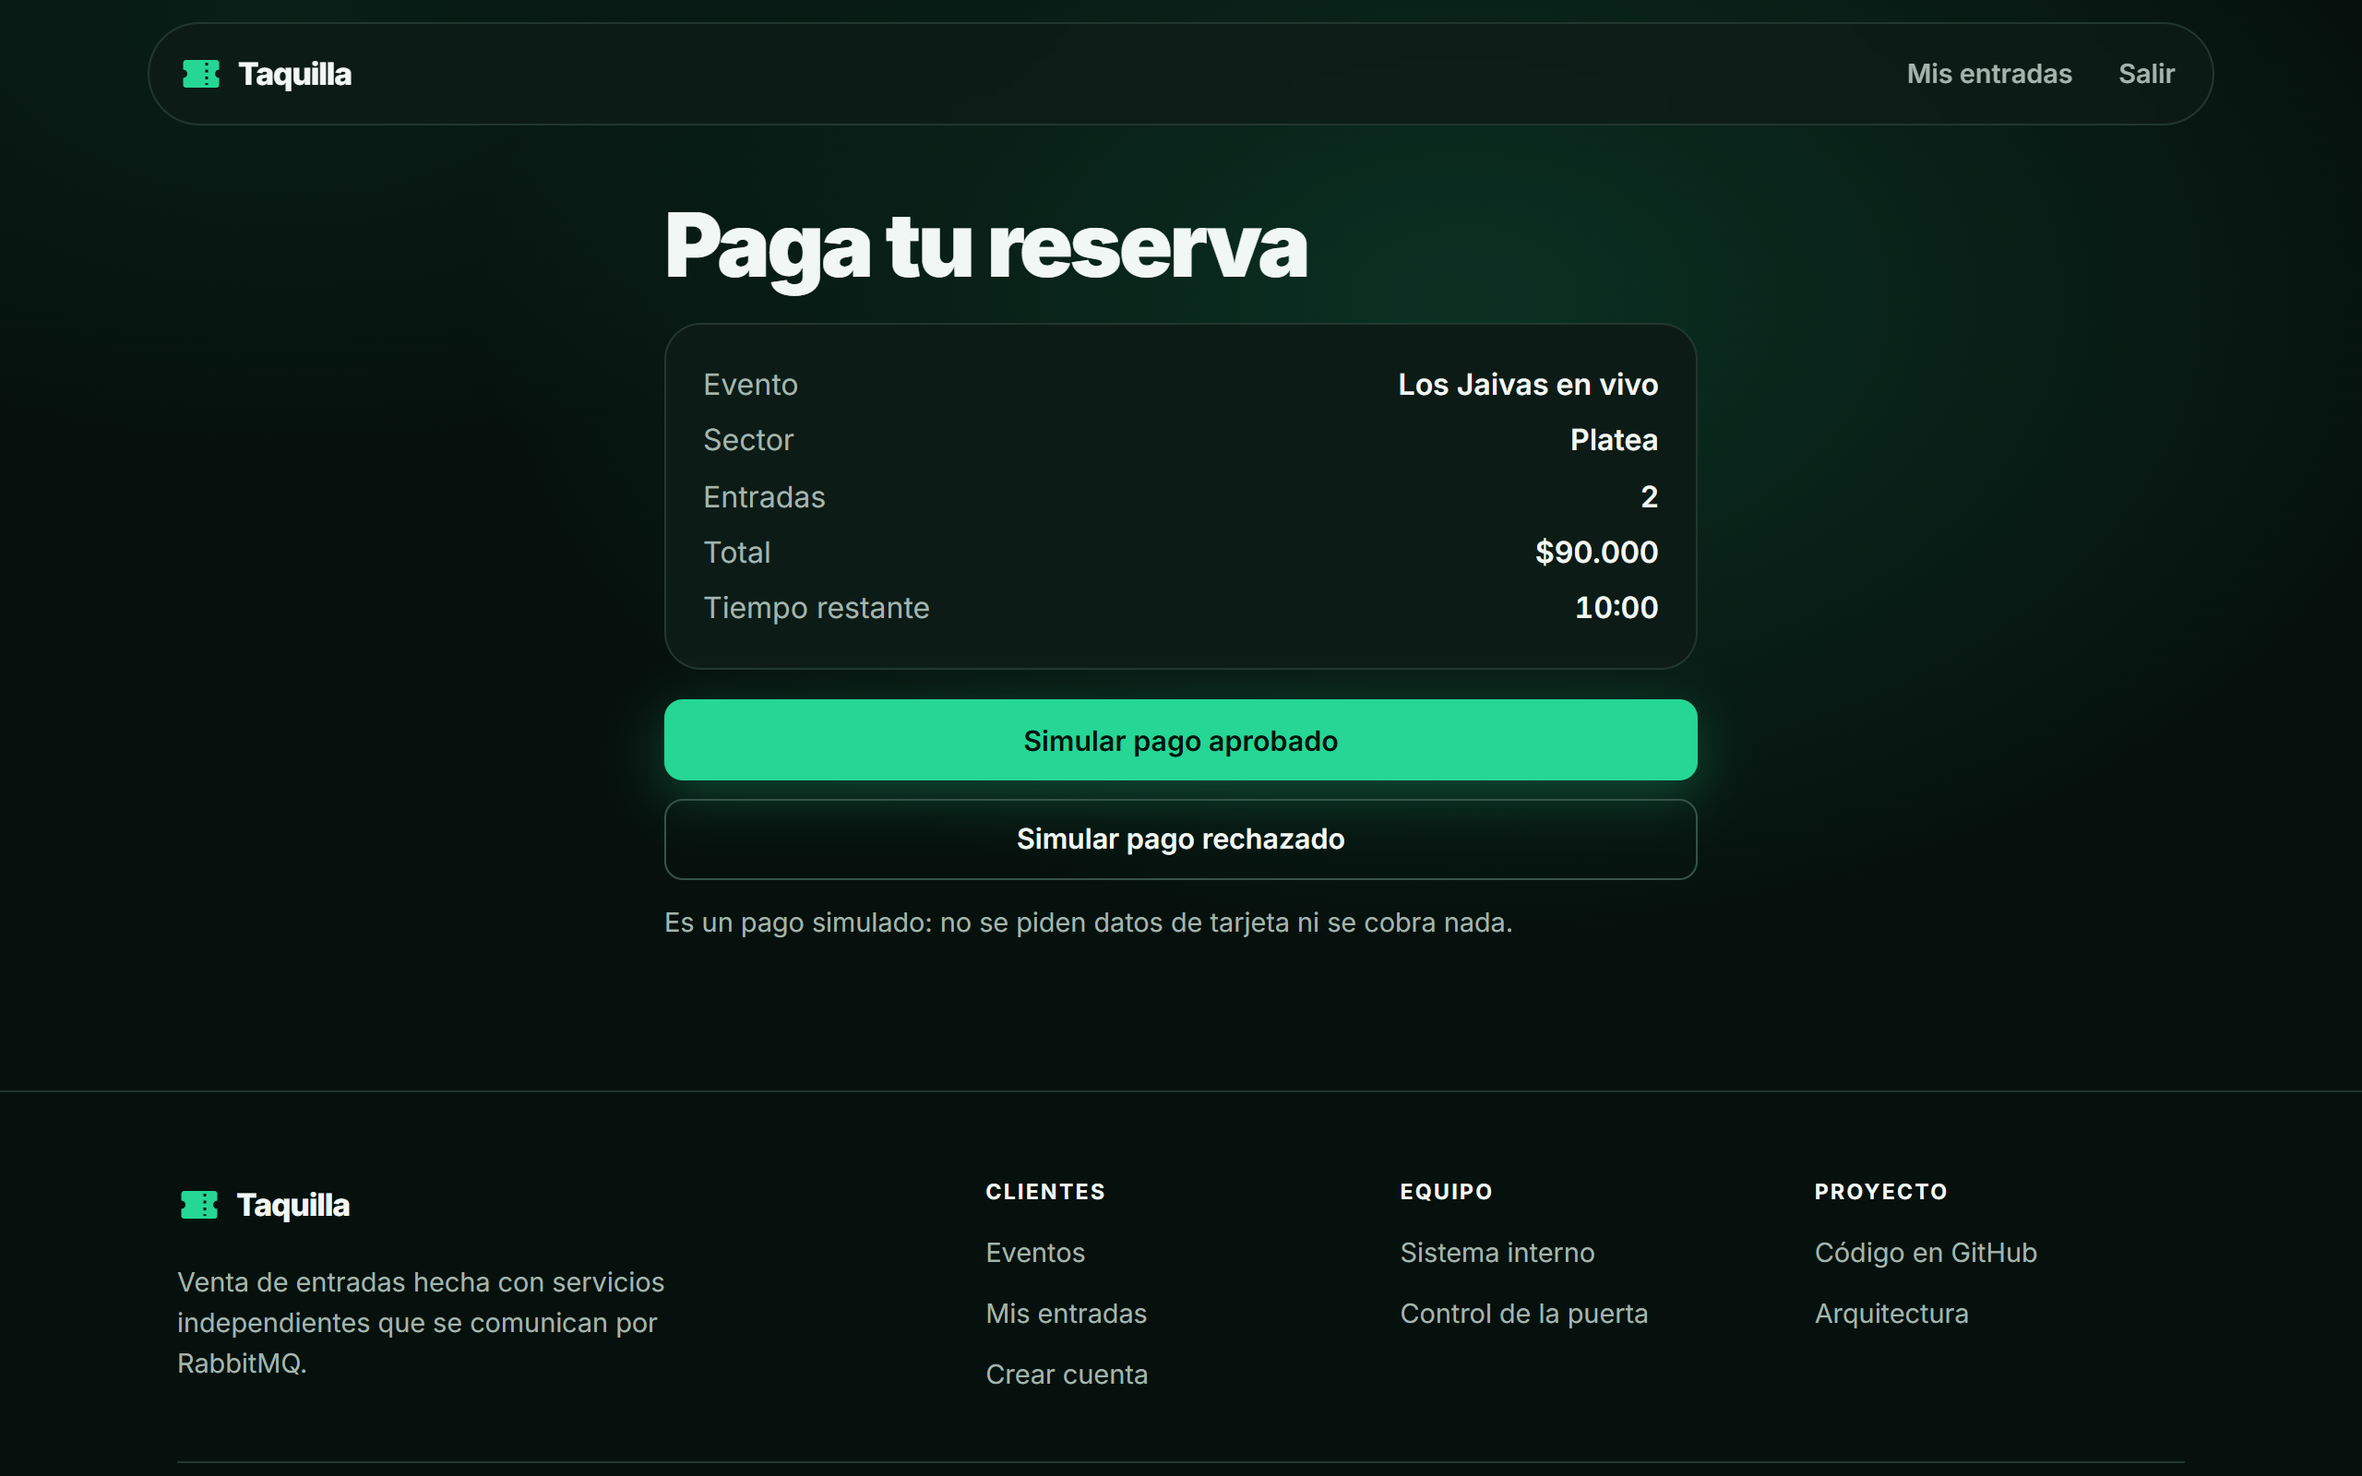
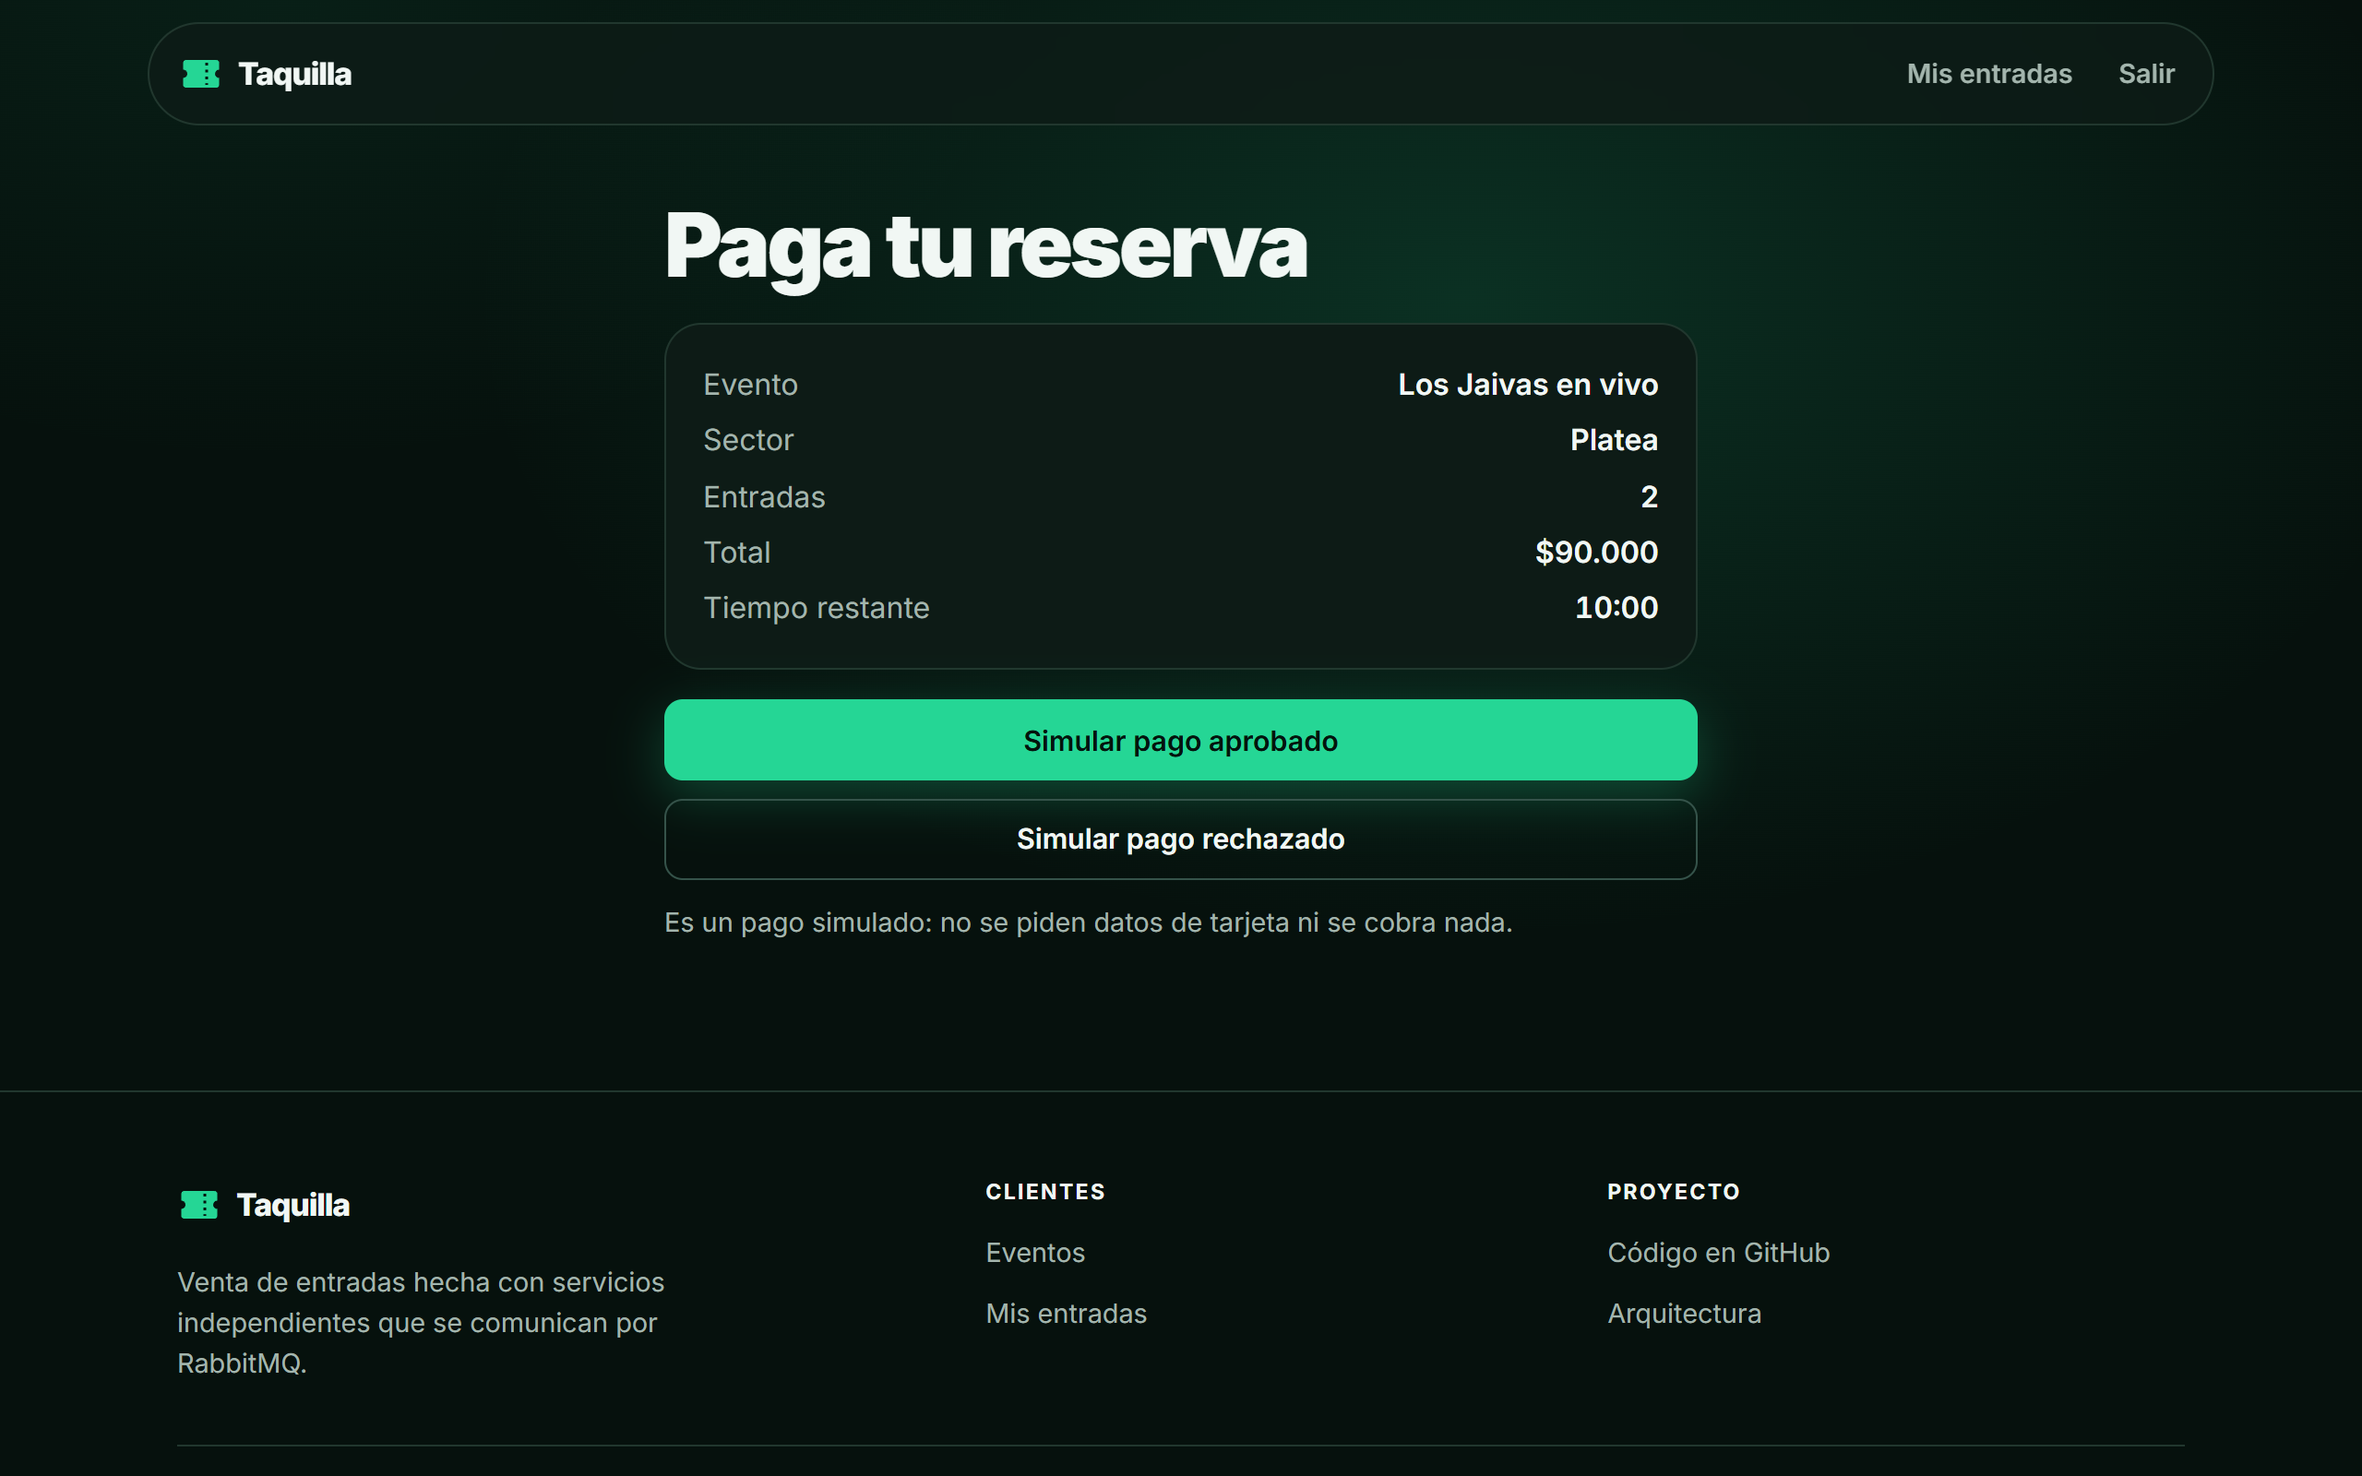
fix: corrige hallazgos de la auditoría del tema oscuro
El pie muestra enlaces según el rol y el aviso de acceso tiene salida, la navegación
sube al inicio de la página y la cabecera ya no se desborda a 320 px. La portada deja de
prometer cuatro pasos cuando son tres, y el README agrega la captura de las tarjetas.

diff --git a/frontend/src/clientes/LayoutClientes.tsx b/frontend/src/clientes/LayoutClientes.tsx
@@ -1,64 +1,8 @@
 import { Link, Outlet, useNavigate } from "react-router-dom";
 import { useSesion } from "../lib/sesion";
 import "./clientes.css";
+import { PieDePagina } from "./PieDePagina";
 import "./portada.css";
-
-const REPOSITORIO = "https://github.com/DHat3r/entradas-soa";
-
-function PieDePagina() {
-  return (
-    <footer className="cl-pie">
-      <div className="cl-pie-interior">
-        <div className="cl-pie-marca">
-          <Link to="/" className="cl-marca">
-            <img src="/icono.svg" alt="" />
-            <span>Taquilla</span>
-          </Link>
-          <p>Venta de entradas hecha con servicios independientes que se comunican por RabbitMQ.</p>
-        </div>
-        <div className="cl-pie-columnas">
-          <nav aria-label="Clientes">
-            <h3>Clientes</h3>
-            <ul>
-              <li>
-                <Link to="/">Eventos</Link>
-              </li>
-              <li>
-                <Link to="/mis-entradas">Mis entradas</Link>
-              </li>
-              <li>
-                <Link to="/registro">Crear cuenta</Link>
-              </li>
-            </ul>
-          </nav>
-          <nav aria-label="Equipo">
-            <h3>Equipo</h3>
-            <ul>
-              <li>
-                <Link to="/interno">Sistema interno</Link>
-              </li>
-              <li>
-                <Link to="/interno/puerta">Control de la puerta</Link>
-              </li>
-            </ul>
-          </nav>
-          <nav aria-label="Proyecto">
-            <h3>Proyecto</h3>
-            <ul>
-              <li>
-                <a href={REPOSITORIO}>Código en GitHub</a>
-              </li>
-              <li>
-                <a href={`${REPOSITORIO}/blob/main/docs/arquitectura.md`}>Arquitectura</a>
-              </li>
-            </ul>
-          </nav>
-        </div>
-        <p className="cl-pie-legal">Proyecto de portafolio. Los pagos son simulados.</p>
-      </div>
-    </footer>
-  );
-}
 
 export function LayoutClientes() {
   const { usuario, salir } = useSesion();
@@ -72,7 +16,13 @@ export function LayoutClientes() {
   return (
     <div className="cl-pagina">
       <header className="cl-cabecera">
-        <Link to="/" className="cl-marca">
+        {/* Ya estando en la portada, la ruta no cambia: por eso el logo sube por su cuenta. */}
+        <Link
+          to="/"
+          className="cl-marca"
+          aria-label="Taquilla, ir al inicio"
+          onClick={() => window.scrollTo({ top: 0 })}
+        >
           <img src="/icono.svg" alt="" />
           <span>Taquilla</span>
         </Link>

diff --git a/frontend/src/clientes/PieDePagina.tsx b/frontend/src/clientes/PieDePagina.tsx
@@ -1,0 +1,75 @@
+import { Link } from "react-router-dom";
+import { useSesion } from "../lib/sesion";
+
+const REPOSITORIO = "https://github.com/DHat3r/entradas-soa";
+
+/** Los enlaces dependen de la sesión, igual que la cabecera: nadie llega a una pantalla sin acceso. */
+export function PieDePagina() {
+  const { usuario } = useSesion();
+  const esCliente = usuario?.rol === "cliente";
+  const esInterno = usuario !== null && !esCliente;
+
+  return (
+    <footer className="cl-pie">
+      <div className="cl-pie-interior">
+        <div className="cl-pie-marca">
+          <Link to="/" className="cl-marca" aria-label="Taquilla">
+            <img src="/icono.svg" alt="" />
+            <span>Taquilla</span>
+          </Link>
+          <p>Venta de entradas hecha con servicios independientes que se comunican por RabbitMQ.</p>
+        </div>
+        <div className="cl-pie-columnas">
+          <nav aria-label="Clientes">
+            <h2>Clientes</h2>
+            <ul>
+              <li>
+                <Link to="/" onClick={() => window.scrollTo({ top: 0 })}>
+                  Eventos
+                </Link>
+              </li>
+              {!esInterno && (
+                <li>
+                  <Link to="/mis-entradas">Mis entradas</Link>
+                </li>
+              )}
+              {!usuario && (
+                <li>
+                  <Link to="/registro">Crear cuenta</Link>
+                </li>
+              )}
+            </ul>
+          </nav>
+          {!esCliente && (
+            <nav aria-label="Equipo">
+              <h2>Equipo</h2>
+              <ul>
+                <li>
+                  <Link to="/interno">Sistema interno</Link>
+                </li>
+                <li>
+                  <Link to="/interno/puerta">Control de la puerta</Link>
+                </li>
+              </ul>
+            </nav>
+          )}
+          <nav aria-label="Proyecto">
+            <h2>Proyecto</h2>
+            <ul>
+              <li>
+                <a href={REPOSITORIO}>Código en GitHub</a>
+              </li>
+              <li>
+                <a href={`${REPOSITORIO}/blob/main/docs/arquitectura.md`}>Arquitectura</a>
+              </li>
+            </ul>
+          </nav>
+        </div>
+        <p className="cl-pie-legal">
+          Proyecto de portafolio. Los pagos son simulados y, en local, los correos se capturan en
+          Mailpit.
+        </p>
+      </div>
+    </footer>
+  );
+}

diff --git a/frontend/src/clientes/PieDePagina.test.tsx b/frontend/src/clientes/PieDePagina.test.tsx
@@ -1,0 +1,52 @@
+import { cleanup, render, screen } from "@testing-library/react";
+import { MemoryRouter } from "react-router-dom";
+import { afterEach, describe, expect, it, vi } from "vitest";
+import type { Rol } from "../lib/api";
+import { useSesion } from "../lib/sesion";
+import { PieDePagina } from "./PieDePagina";
+
+vi.mock("../lib/sesion", () => ({ useSesion: vi.fn() }));
+
+function mostrarCon(rol: Rol | null) {
+  vi.mocked(useSesion).mockReturnValue({
+    usuario: rol && { usuario_id: "u1", rol, correo: "a@b.cl", nombre: "Ana" },
+    cargando: false,
+    refrescar: vi.fn(),
+    salir: vi.fn(),
+  });
+  render(
+    <MemoryRouter>
+      <PieDePagina />
+    </MemoryRouter>,
+  );
+}
+
+const hayEnlace = (nombre: string) => screen.queryByRole("link", { name: nombre }) !== null;
+
+describe("PieDePagina", () => {
+  afterEach(cleanup);
+
+  it("sin sesión ofrece crear cuenta y el acceso del equipo", () => {
+    mostrarCon(null);
+
+    expect(hayEnlace("Crear cuenta")).toBe(true);
+    expect(hayEnlace("Mis entradas")).toBe(true);
+    expect(hayEnlace("Sistema interno")).toBe(true);
+  });
+
+  it("a un cliente no le muestra el sistema interno ni crear cuenta", () => {
+    mostrarCon("cliente");
+
+    expect(hayEnlace("Mis entradas")).toBe(true);
+    expect(hayEnlace("Sistema interno")).toBe(false);
+    expect(hayEnlace("Control de la puerta")).toBe(false);
+    expect(hayEnlace("Crear cuenta")).toBe(false);
+  });
+
+  it.each<Rol>(["organizador", "validador"])("a un %s no le muestra mis entradas", (rol) => {
+    mostrarCon(rol);
+
+    expect(hayEnlace("Mis entradas")).toBe(false);
+    expect(hayEnlace("Sistema interno")).toBe(true);
+  });
+});

diff --git a/frontend/src/App.tsx b/frontend/src/App.tsx
@@ -1,4 +1,5 @@
-import { BrowserRouter, Route, Routes } from "react-router-dom";
+import { useEffect } from "react";
+import { BrowserRouter, Route, Routes, useLocation, useNavigationType } from "react-router-dom";
 import { IngresarPage, RegistroPage } from "./clientes/AccesoPages";
 import { CompraPage } from "./clientes/CompraPage";
 import { EventoPage } from "./clientes/EventoPage";
@@ -7,6 +8,18 @@ import { LayoutClientes } from "./clientes/LayoutClientes";
 import { MisEntradasPage } from "./clientes/MisEntradasPage";
 import { RutasInternas } from "./interno/RutasInternas";
 import { ProveedorDeSesion, RequiereRol } from "./lib/sesion";
+
+/** El navegador no sube solo al cambiar de ruta en una app React. Al volver atrás, respeta la posición. */
+function SubirAlNavegar() {
+  const { pathname } = useLocation();
+  const tipo = useNavigationType();
+
+  useEffect(() => {
+    if (tipo !== "POP") window.scrollTo({ top: 0, behavior: "instant" });
+  }, [pathname, tipo]);
+
+  return null;
+}
 
 function SoloCliente({ children }: { children: React.ReactNode }) {
   return (
@@ -19,6 +32,7 @@ function SoloCliente({ children }: { children: React.ReactNode }) {
 export function App() {
   return (
     <BrowserRouter>
+      <SubirAlNavegar />
       <ProveedorDeSesion>
         <Routes>
           <Route path="/interno/*" element={<RutasInternas />} />

diff --git a/frontend/src/clientes/portada.css b/frontend/src/clientes/portada.css
@@ -94,6 +94,12 @@
   padding: 0 1rem 5rem;
 }
 
+/* Avisos que son todo el contenido de la página: sin esto quedan pegados a la cabecera. */
+.cl-contenido > .aviso,
+.cl-contenido > .vacio {
+  margin-top: 2.5rem;
+}
+
 /* ── Hero ────────────────────────────────────────────────────── */
 .hero {
   display: grid;
@@ -571,7 +577,7 @@ a.boleto:hover {
   gap: 1.5rem;
 }
 
-.cl-pie h3 {
+.cl-pie h2 {
   margin-bottom: 0.75rem;
   font-size: 0.72rem;
   font-weight: 700;
@@ -634,7 +640,25 @@ a.boleto:hover {
     right: 8px;
   }
 
-  .cl-marca span {
-    font-size: 1rem;
+}
+
+/* En pantallas muy angostas no caben marca, "Ingresar" y "Crear cuenta": queda solo el logo. */
+@media (max-width: 380px) {
+  .cl-cabecera {
+    gap: 0.5rem;
+    padding-left: 0.75rem;
+  }
+
+  .cl-cabecera .cl-marca span {
+    display: none;
+  }
+
+  .cl-nav a:not(.boton),
+  .cl-nav button:not(.boton) {
+    padding-inline: 0.4rem;
+  }
+
+  .cl-nav .boton {
+    padding-inline: 0.75rem;
   }
 }

diff --git a/frontend/src/clientes/EventosPage.tsx b/frontend/src/clientes/EventosPage.tsx
@@ -30,10 +30,9 @@ const VENTAJAS = [
 ];
 
 const PASOS = [
-  "Elige tu sector y hasta 6 entradas",
+  "Elige tu sector y hasta 6 entradas, e ingresa con tu cuenta",
   "Paga dentro de los 10 minutos que dura la reserva",
   "Recibe un QR por entrada en tu correo",
-  "Si el pago falla, los cupos se liberan solos",
 ];
 
 /** Dibujo de un QR para la ilustración. No es un código real ni se puede escanear. */
@@ -220,10 +219,10 @@ export function EventosPage() {
         <div className="bloque">
           <div>
             <h2>
-              Compra en <span className="destacado">cuatro pasos</span>
+              Compra en <span className="destacado">tres pasos</span>
             </h2>
             <p className="bloque-texto">
-              Sin colas ni filas virtuales: si quedan cupos, son tuyos mientras pagas.
+              Si quedan cupos, son tuyos mientras pagas. Si el pago falla o se acaba el plazo, se liberan solos.
             </p>
             <ul className="lista-chequeo">
               {PASOS.map((paso) => (

diff --git a/frontend/src/lib/sesion.tsx b/frontend/src/lib/sesion.tsx
@@ -6,7 +6,7 @@ import {
   useState,
   type ReactNode,
 } from "react";
-import { Navigate, useLocation } from "react-router-dom";
+import { Link, Navigate, useLocation } from "react-router-dom";
 import { api, type Rol, type Usuario } from "./api";
 
 interface Sesion {
@@ -73,7 +73,7 @@ export function RequiereRol({
   if (!roles.includes(usuario.rol)) {
     return (
       <div className="aviso aviso-error" role="alert">
-        Tu cuenta no tiene acceso a esta sección.
+        Tu cuenta no tiene acceso a esta sección. <Link to="/">Volver al inicio</Link>
       </div>
     );
   }

diff --git a/frontend/src/interno/interno.css b/frontend/src/interno/interno.css
@@ -241,13 +241,6 @@
   font-weight: 400;
 }
 
-/* ── Formularios sobre tema oscuro ───────────────────────────── */
-.in-tarjeta .campo input,
-.in-tarjeta .campo select,
-.in-tarjeta .campo textarea {
-  background: var(--fondo);
-}
-
 .in-sectores {
   display: grid;
   gap: 1rem;

diff --git a/frontend/src/estilos/base.css b/frontend/src/estilos/base.css
@@ -36,6 +36,8 @@
 html {
   -webkit-text-size-adjust: 100%;
   scroll-behavior: smooth;
+  /* Para que la cabecera fija no tape un elemento con foco ni el destino de un ancla. */
+  scroll-padding-top: 5rem;
 }
 
 body {

diff --git a/README.md b/README.md
@@ -12,8 +12,11 @@ Hay dos sistemas en la misma web: clientes (`/`) e interno (`/interno`).
 
 ### Sistema de clientes
 
-![Portada con los próximos eventos en tarjetas con forma de entrada](docs/capturas/portada.png)
-*Portada: los próximos eventos a la venta.*
+![Portada con el título, los datos clave de la compra y una entrada de ejemplo](docs/capturas/portada.png)
+*Portada: qué ofrece y cómo se ve una entrada.*
+
+![Próximos eventos en tarjetas oscuras con forma de entrada troquelada](docs/capturas/eventos.png)
+*Próximos eventos: cada tarjeta tiene las muescas de una entrada de papel.*
 
 ![Página de un evento con sectores, precios, cupos disponibles y el total](docs/capturas/evento.png)
 *Evento: el cliente elige sector y cantidad, y ve el total antes de reservar.*
@@ -152,8 +155,8 @@ Cantidad de tests por carpeta, contada con `python -m pytest --collect-only -q` 
 | `services/notificaciones` | 7 |
 | **Subtotal Python** | **136** |
 | `e2e` (necesita el stack) | 6 |
-| `frontend` (Vitest) | 17 |
-| **Total** | **159** |
+| `frontend` (Vitest) | 21 |
+| **Total** | **163** |
 
 `libs/basedatos` no tiene tests propios.
 
